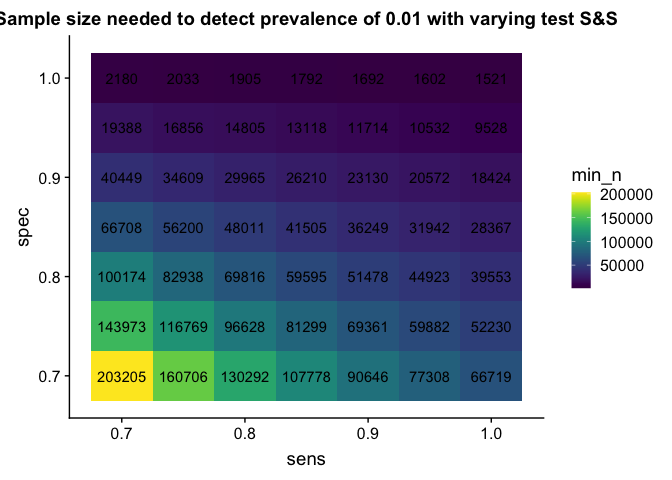
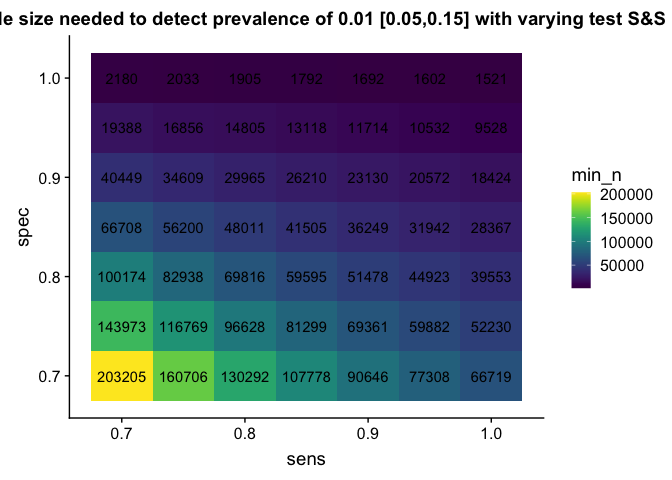
Update

Changed region(s): [[0.0, 0.0, 1.0, 0.0625]]

diff --git a/sample_exploration.md b/sample_exploration.md
@@ -19,6 +19,10 @@ Serology Testing Exploration
 
 ### Q1: How large does sample size need to be to detect prevalence levels using a perfect test?
 
+Use normal approximation to binomial distribution to determine minimum *n* to detect prevalence *p* with tolerance *d* at desired confidence interval *z*
+
+$n = (\\frac{z}{d})^2 \* p (1 - p))$
+
 ``` r
 # Set up data
 
@@ -37,7 +41,7 @@ min_prev = 0.0001 # infinity for zero
 max_prev = max(reported_prev$prev + 0.1)
 
 # TOLERANCE LEVEL (ALLOWABLE ERROR)
-# Conventionally, an ‘absolute’ allowable error margin d of ±5 % is chosen, 
+# Conventionally, an ‘absolute’ allowable error margin d of 5 % is chosen, 
 # but, as is common in clinical practice, 
 # if expected prevalence P is <10 %, 
 # the 95 % confidence boundaries may cross 0, which is impractical.
@@ -86,6 +90,10 @@ plot_q1
 ![](sample_exploration_files/figure-markdown_github/q1-1.png)
 
 ### Q2: How large does sample size need to be to detect prevalence levels using an imperfect test?
+
+Same as Eq. 1, but incorporate sensitivity and specificity. See Humphry 2014 Eq. 2
+
+x = sensitivity y = specificity $n = (\\frac{z}{d})^2 \\frac{xp + (1-x) \* (1-p) \*(1- xp - (1-y)(1-p))}{(x - y - 1)^2}$
 
 ``` r
 # Imperfect test - with sensitivity and specificity
@@ -171,7 +179,7 @@ plot_q3 <- ggplot(data = q3_result_df,
   geom_tile(aes(fill = min_n, label = min_n)) +
   geom_text(aes(label = round(min_n, digits = 0))) +
   ggtitle(paste0("Sample size needed to detect prevalence of ", 
-                 set_prev, " with varying test S&S")) +
+                 set_prev, " [0.05,0.15] with varying test S&S")) +
   scale_fill_viridis(discrete = F)
 ```
 
@@ -184,18 +192,23 @@ plot_q3
 ![](sample_exploration_files/figure-markdown_github/q3-1.png)
 
 ``` r
-p_test = 0.05
-x = seq(0.1,1, by = 0.1)
-b = seq(1,10, by = 1)
+p_test = 0.001
+p_covid.test = seq(0,1, by = 0.1)
+p_test.covid = seq(0, p_test*2, length.out = length(p_covid.test))
 
-data.frame(p_covid.test = x,
-           p_test.covid = b) %>%
+df <- data.frame(p_covid.test = p_covid.test,
+           p_test.covid = p_test.covid) %>%
   expand(p_covid.test, p_test.covid) %>%
-  mutate(p_covid = (p_test/p_test.covid) * p_covid.test) %>%
-ggplot(aes(x = p_covid.test, y =  p_covid, color = p_test.covid)) +
+  mutate(p_covid = (p_test/p_test.covid) * p_covid.test) 
+
+ggplot(data = df,
+       aes(x =p_covid.test, y = p_covid,
+           color = p_test / p_test.covid )) +
   geom_line(aes(group = p_test.covid)) +
   geom_abline(intercept = 0, slope = 1, color = "red") +
   scale_color_viridis(discrete = F)
 ```
+
+    ## Warning: Removed 1 row(s) containing missing values (geom_path).
 
 ![](sample_exploration_files/figure-markdown_github/unnamed-chunk-1-1.png)
